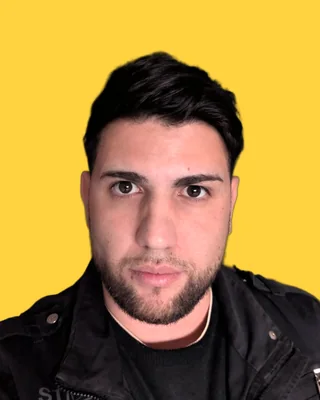
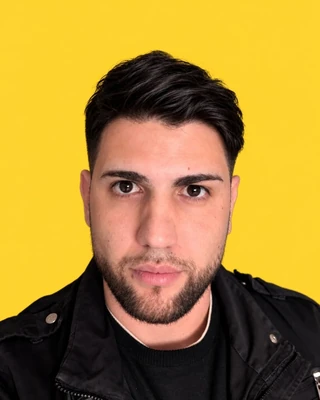
feat: incorporar iconos de proyectos, actualizar foto y titulo secundario en Sobre mi

diff --git a/templates/core/sobre_mi.html b/templates/core/sobre_mi.html
@@ -68,7 +68,7 @@
     <h2>Formación</h2>
     <ul>
       <li><strong>Ingeniería en Sistemas</strong>, Universidad Nacional de Avellaneda (UNDAV), dos años cursados.</li>
-      <li><strong>Bachiller en Economía y Gestión de las Organizaciones</strong>, CENS N.º 453.</li>
+      <li><strong>Bachiller en Ciencias de la Comunicación</strong>, Normal Superior N° 5.</li>
       <li><strong>Instructor de Formación Profesional</strong>, CFP N.º 23 (en curso).</li>
       <li><strong>CFP N.º 401:</strong> Instalador y Administrador de Redes Informáticas (2022), Montador Electricista (2021), Instalador de Sistemas Eléctricos de Energía Renovable (2021), Instalador de Sistemas Solares Térmicos (2021) y Operador de PC (2018).</li>
       <li><strong>Técnico en Reparación, Armado y Mantenimiento de PC</strong>, Centro Cultural Rojas, UBA (2007).</li>

diff --git a/tests/test_paginas.py b/tests/test_paginas.py
@@ -61,7 +61,7 @@ def test_sitemap_robots_feed_y_salud(client):
     assert "/proyectos/transcriptor-local/" in sitemap and "/guias/videos-a-60-fps-con-ffmpeg/" in sitemap
     assert "Sitemap: http://testserver/sitemap.xml" in client.get("/robots.txt").content.decode()
     assert "Videos a 60 FPS con FFmpeg" in client.get("/guias/feed/").content.decode()
-    assert client.get("/salud/").json() == {"status": "ok", "proyectos": 11, "guias": 2}
+    assert client.get("/salud/").json() == {"status": "ok", "proyectos": 12, "guias": 2}
 
 
 def test_cabeceras_de_seguridad(client):
@@ -83,7 +83,7 @@ def test_contacto_vacio_no_se_muestra(client, settings):
 
 def test_comando_validar_contenido(capsys):
     call_command("validar_contenido")
-    assert "Contenido OK: 11 proyectos, 2 guías" in capsys.readouterr().out
+    assert "Contenido OK: 12 proyectos, 2 guías" in capsys.readouterr().out
 
 
 def test_favicon_ico_redirige_al_svg(client):

diff --git a/contenido/proyectos/tutiendita-centralita.md b/contenido/proyectos/tutiendita-centralita.md
@@ -7,6 +7,7 @@ etiqueta: panel local
 resumen: Un panel que corre en la computadora de trabajo y muestra en tiempo real qué pedidos entran, cuáles están en proceso y cuáles están listos.
 stack: [Python, FastAPI, HTML, JavaScript]
 repo: https://github.com/serranicolasp2-sudo/TuTiendita-Centralita
+icono: img/proyectos/tutiendita-centralita_256.png
 datos:
   Corre en: la propia PC, sin exponerse a internet
   Módulos: archivos, audio, clientes, costos, retoques y sistema

diff --git a/contenido/proyectos/tutiendita-tienda.md b/contenido/proyectos/tutiendita-tienda.md
@@ -7,6 +7,7 @@ etiqueta: pago → bot → entrega
 resumen: El backend que cobra con Mercado Pago, registra los pedidos y pone a trabajar al bot que los procesa.
 stack: [Python, FastAPI, SQLAlchemy, SQLite, Mercado Pago, Google Drive API]
 repo: https://github.com/serranicolasp2-sudo/TuTiendita-Tienda
+icono: img/proyectos/tutiendita-tienda_256.png
 datos:
   Pagos: Checkout Pro y webhooks con idempotencia
   Avisos: ntfy, WhatsApp y mail

diff --git a/contenido/proyectos/campus-virtual-semi.md b/contenido/proyectos/campus-virtual-semi.md
@@ -8,6 +8,7 @@ etiqueta: 795 tests · 90 %
 resumen: Un aula virtual hecha a medida en Django (no Moodle) para el secundario de adultos a distancia del CFP N° 401.
 stack: [Python, Django 5.2, PostgreSQL, HTMX, django-allauth, Nginx, Gunicorn]
 repo: https://github.com/serranicolasp2-sudo/Campus-Virtual-Semi
+icono: img/proyectos/campus-virtual-semi_256.png
 datos:
   Tests: 795 en verde, 90 % de cobertura
   Plan: 72 tareas en 10 etapas

diff --git a/contenido/proyectos/cfp401-portal.md b/contenido/proyectos/cfp401-portal.md
@@ -9,6 +9,7 @@ resumen: El sitio oficial de la escuela, un panel para que el equipo actualice l
 stack: [React, JSX, PHP, bcrypt, Nginx]
 web: https://cfp401avellaneda.com.ar
 repo: https://github.com/serranicolasp2-sudo/CFP-401-Avellaneda
+icono: img/proyectos/cfp401-portal_256.png
 datos:
   Flyers: feed 1:1 y 4:5, historias 9:16 y afiches A4
   Panel: login con bcrypt, CSRF y límite de intentos

diff --git a/contenido/proyectos/restauracion-de-fotos.md b/contenido/proyectos/restauracion-de-fotos.md
@@ -10,6 +10,7 @@ stack: [Real-ESRGAN (ncnn-vulkan), Python, Pillow, FastAPI, Mercado Pago]
 instagram: restauraciondefotos
 web: https://restauraciondefotos.com.ar
 repo: https://github.com/serranicolasp2-sudo/TuTiendita-Produccion
+icono: img/proyectos/restauracion-de-fotos_256.png
 datos:
   Modos de color: a color, colores de época o blanco y negro
   Salida: hasta 4800 px a 300 DPI

diff --git a/contenido/proyectos/omnivideo-studio.md b/contenido/proyectos/omnivideo-studio.md
@@ -17,7 +17,7 @@ descargas:
   - nombre: Portable
     archivo: OmniVideo.Studio.Portable.zip
     tamano: 176 MB
-icono: img/proyectos/omnisuite_256.png
+icono: img/proyectos/omnivideo_256.png
 datos:
   Modos: Mejorar (CAS/Denoise), Fluidez (HFR 60/120 FPS), Escalar (1080p/2K/4K) y Cadena
   Aceleración: NVIDIA NVENC (P7 HQ multipass), AMD AMF, CPU (libx264)

diff --git a/contenido/proyectos/tu-cancion.md b/contenido/proyectos/tu-cancion.md
@@ -10,6 +10,7 @@ stack: [LLM, Suno, Python, FFmpeg, FastAPI, Mercado Pago]
 instagram: tucancion.com.ar
 web: https://tucancion.com.ar
 repo: https://github.com/serranicolasp2-sudo/TuTiendita-Produccion
+icono: img/proyectos/tu-cancion_256.png
 datos:
   Estilos: balada, cumbia, rock y bolero, entre otros
   Vista previa: 1 minuto con fundido antes de aprobar
